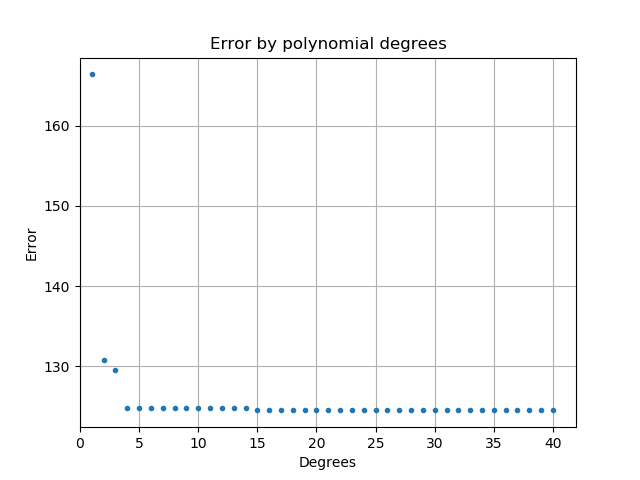
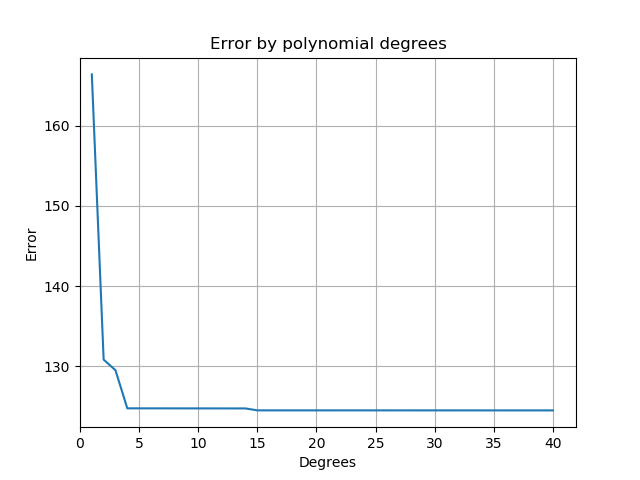
Looks better with linear smoothing with later figs

Changed region(s): [[0.1875, 0.8125, 0.875, 0.875], [0.125, 0.1562, 0.1562, 0.5312], [0.1562, 0.5938, 0.1875, 0.7812]]

diff --git a/polynomial_errors.py b/polynomial_errors.py
@@ -4,12 +4,12 @@ import pandas as pd
 from scipy import interpolate, poly1d
 import matplotlib.pyplot as plt
 import warnings
- 
- 
+
+
 def rmse(targets, predictions):
     return np.sqrt(((targets - predictions) ** 2).mean())
-   
- 
+
+
 def model(xs, ys, n=3):
     with warnings.catch_warnings():
         warnings.simplefilter('ignore', np.RankWarning)
@@ -26,11 +26,11 @@ def main():
     train_ys = train['mass change']
     test_xs  = test['year']
     test_ys  = test['mass change']
- 
+
     diffs = [rmse(train_ys, model(train_xs, train_ys, n))
              for n in range(1, 41)]
-    plt.plot(range(1, 41), diffs, '.')
-   
+    plt.plot(range(1, 41), diffs)
+
     plt.title('Error by polynomial degrees')
     plt.xlabel('Degrees')
     plt.ylabel('Error')
@@ -38,8 +38,8 @@ def main():
     plt.gca().set_xlim(0)
     plt.savefig('polynomial_errors.png')
     plt.show()
- 
- 
+
+
 if __name__ == '__main__':
     main()
 
